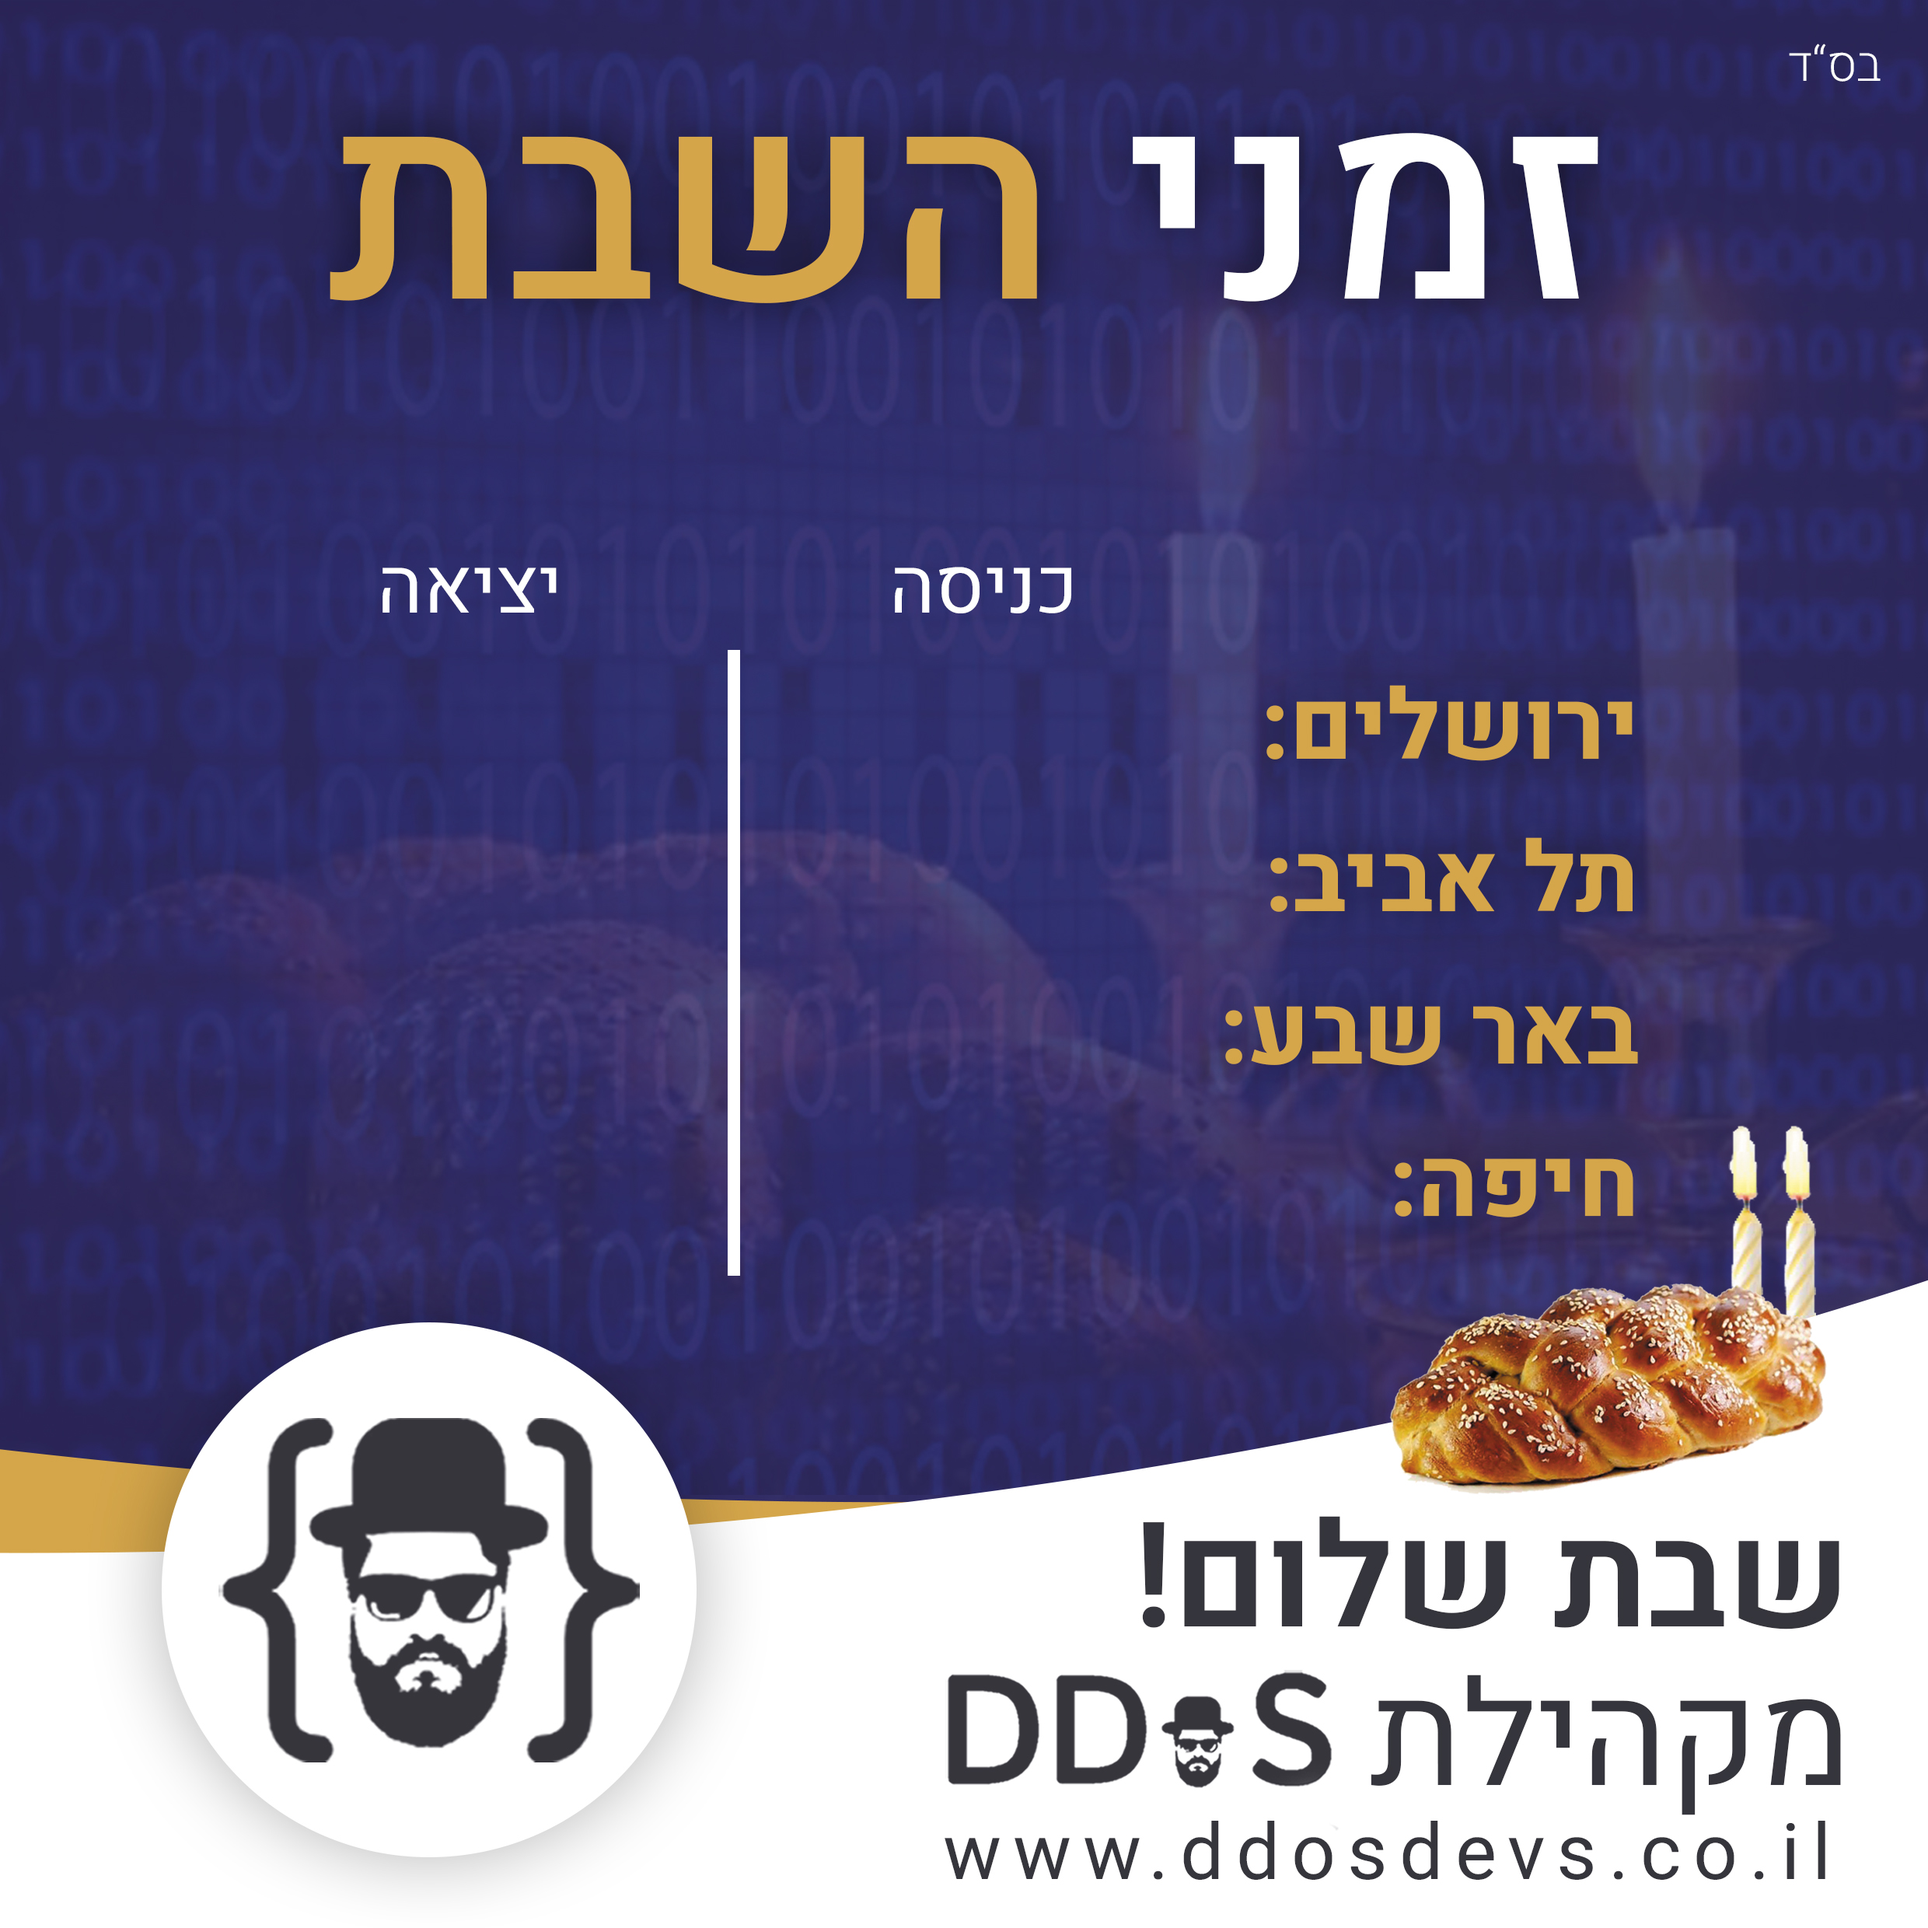
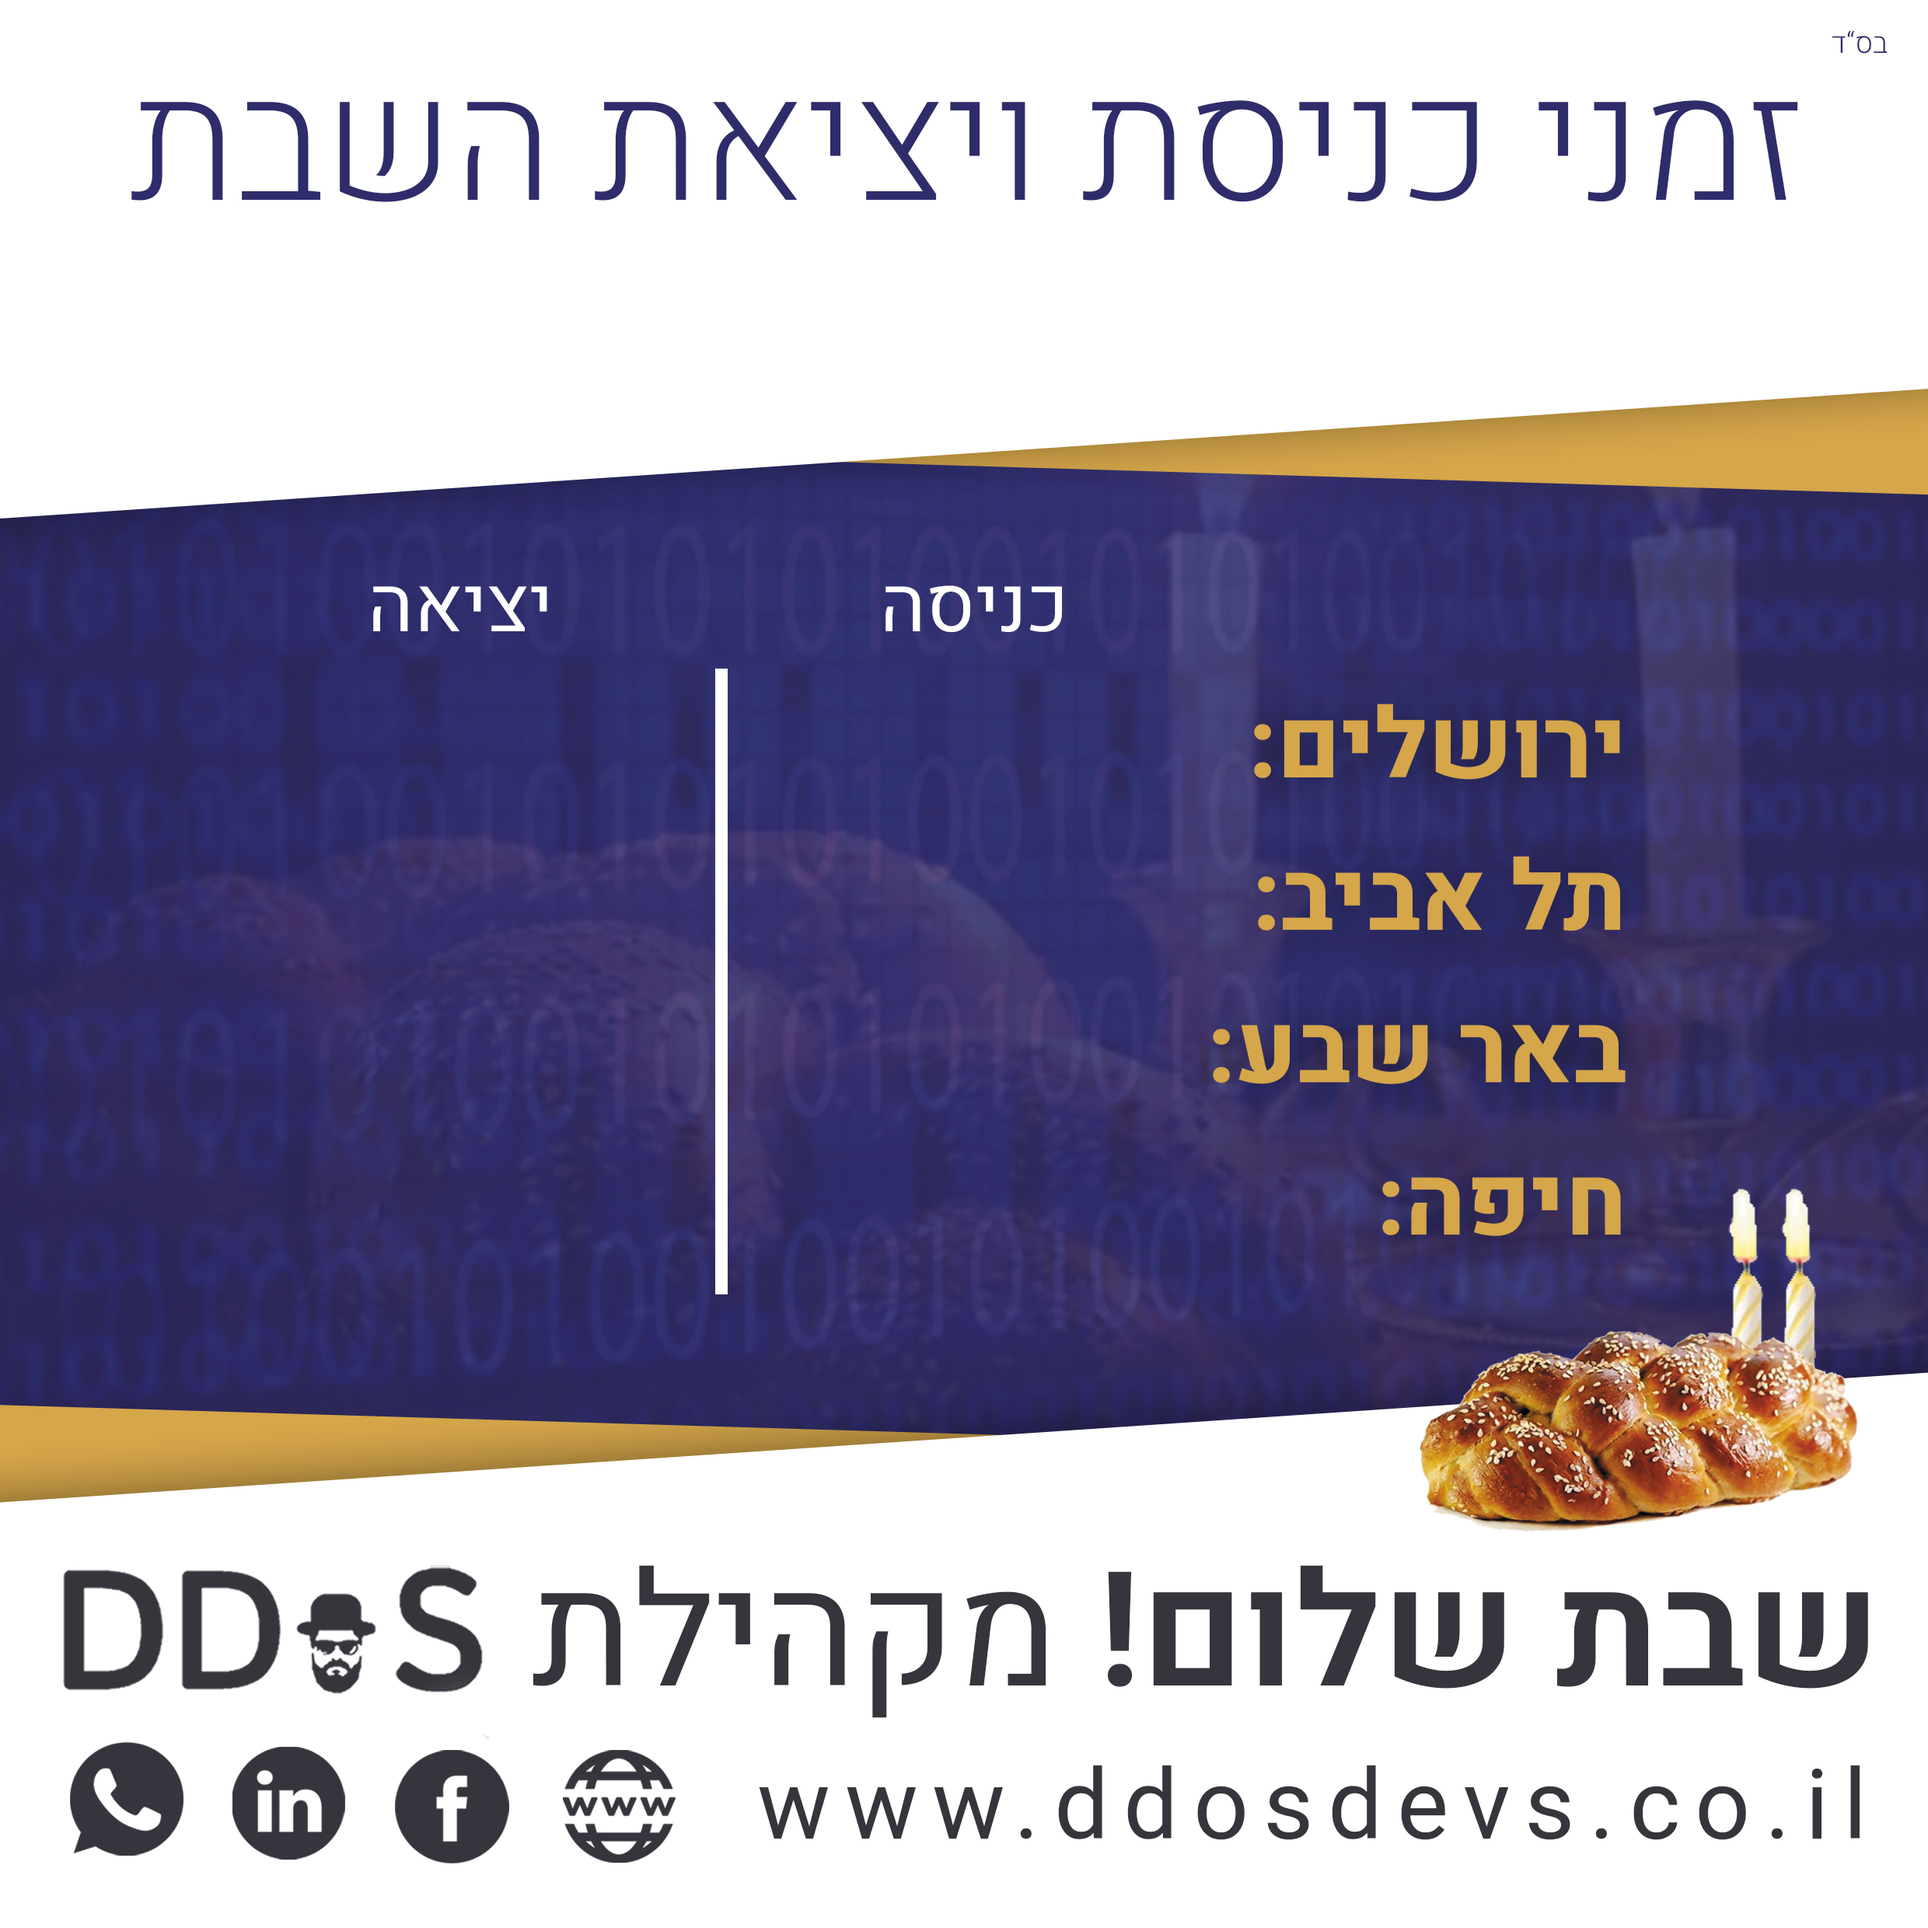
changed template style

diff --git a/script.js b/script.js
@@ -6,8 +6,8 @@ window.onload = function() {
     img.src = './template.jpg';
     img.onload = async () => {
         ctx.drawImage(img, 0, 0, img.width, img.height, 0, 0, canvas.width, canvas.height);
-        ctx.fillStyle = "white";
-        ctx.font = "600 130px Assistant";
+        ctx.fillStyle = "#d5a64a";
+        ctx.font = "700 160px Assistant";
         
         var response;
         var json;
@@ -37,7 +37,7 @@ window.onload = function() {
         var haifaExist = json.items[2].title.split(" ")[1];
 
         var parashaWidth = ctx.measureText(parashaString).width;
-        ctx.fillText(parashaString , (canvas.width/2) - (parashaWidth / 2), 415);
+        ctx.fillText(parashaString , (canvas.width/2) - (parashaWidth / 2), 345);
 
         if (window.localStorage) {
             if (!localStorage.getItem('reload')) {
@@ -48,24 +48,25 @@ window.onload = function() {
             }
         }
         
+        ctx.fillStyle = "white";
         ctx.font = "700 95px Assistant";
         var jerusalemString = `${jerusalemExist}             ${jerusalemEnter}`;
         var jerusalemWidth = ctx.measureText(jerusalemString).width;
-        ctx.fillText(jerusalemString , (canvas.width/2) - (jerusalemWidth / 2) - 230, 710 + 140*0);
+        ctx.fillText(jerusalemString , (canvas.width/2) - (jerusalemWidth / 2) - 230, 730 + 140*0);
     
         var telavivString = `${telavivExist}             ${telavivEnter}`;
         var telavivWidth = ctx.measureText(telavivString).width;
-        ctx.fillText(telavivString , (canvas.width/2) - (telavivWidth / 2) - 230, 710 + 140*1);
+        ctx.fillText(telavivString , (canvas.width/2) - (telavivWidth / 2) - 230, 730 + 140*1);
 
 
         var beershevaString = `${beershevaExist}             ${beershevaEnter}`;
         var beershevaWidth = ctx.measureText(beershevaString).width;
-        ctx.fillText(beershevaString , (canvas.width/2) - (beershevaWidth / 2) - 230, 710 + 140*2);
+        ctx.fillText(beershevaString , (canvas.width/2) - (beershevaWidth / 2) - 230, 730 + 140*2);
 
 
         var haifaString = `${haifaExist}             ${haifaEnter}`;
         var haifaWidth = ctx.measureText(haifaString).width;
-        ctx.fillText(haifaString , (canvas.width/2) - (haifaWidth / 2) - 230, 710 + 140*3);
+        ctx.fillText(haifaString , (canvas.width/2) - (haifaWidth / 2) - 230, 730 + 140*3);
 
         var loader = document.getElementById("loader");
         var button = document.getElementById("download");
